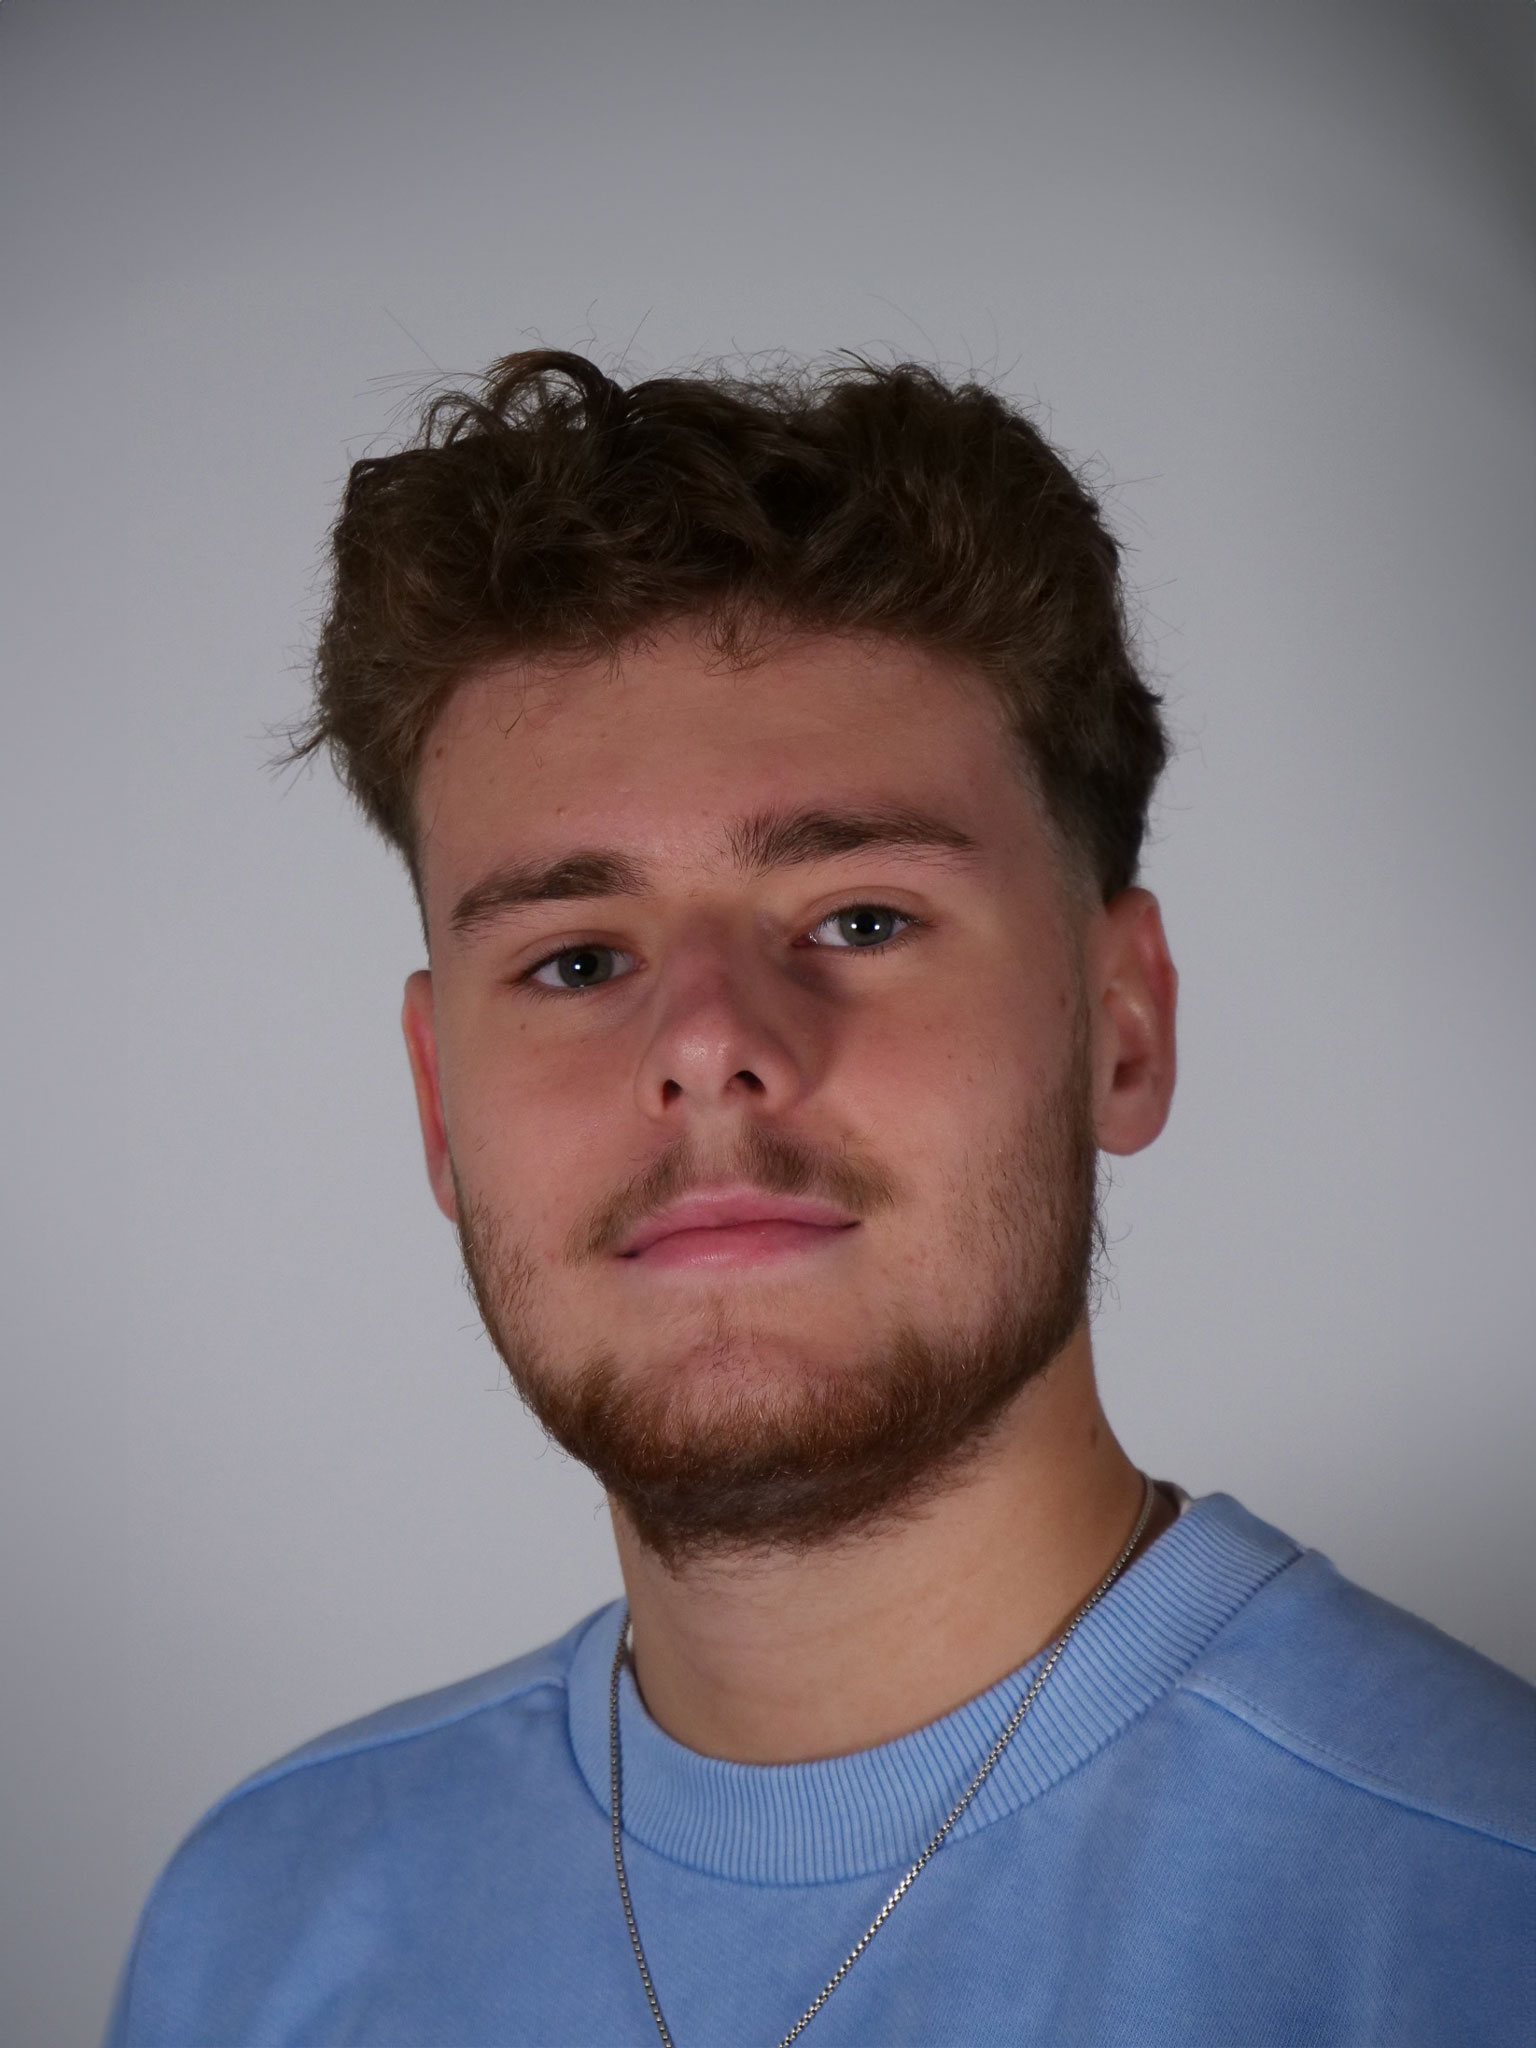
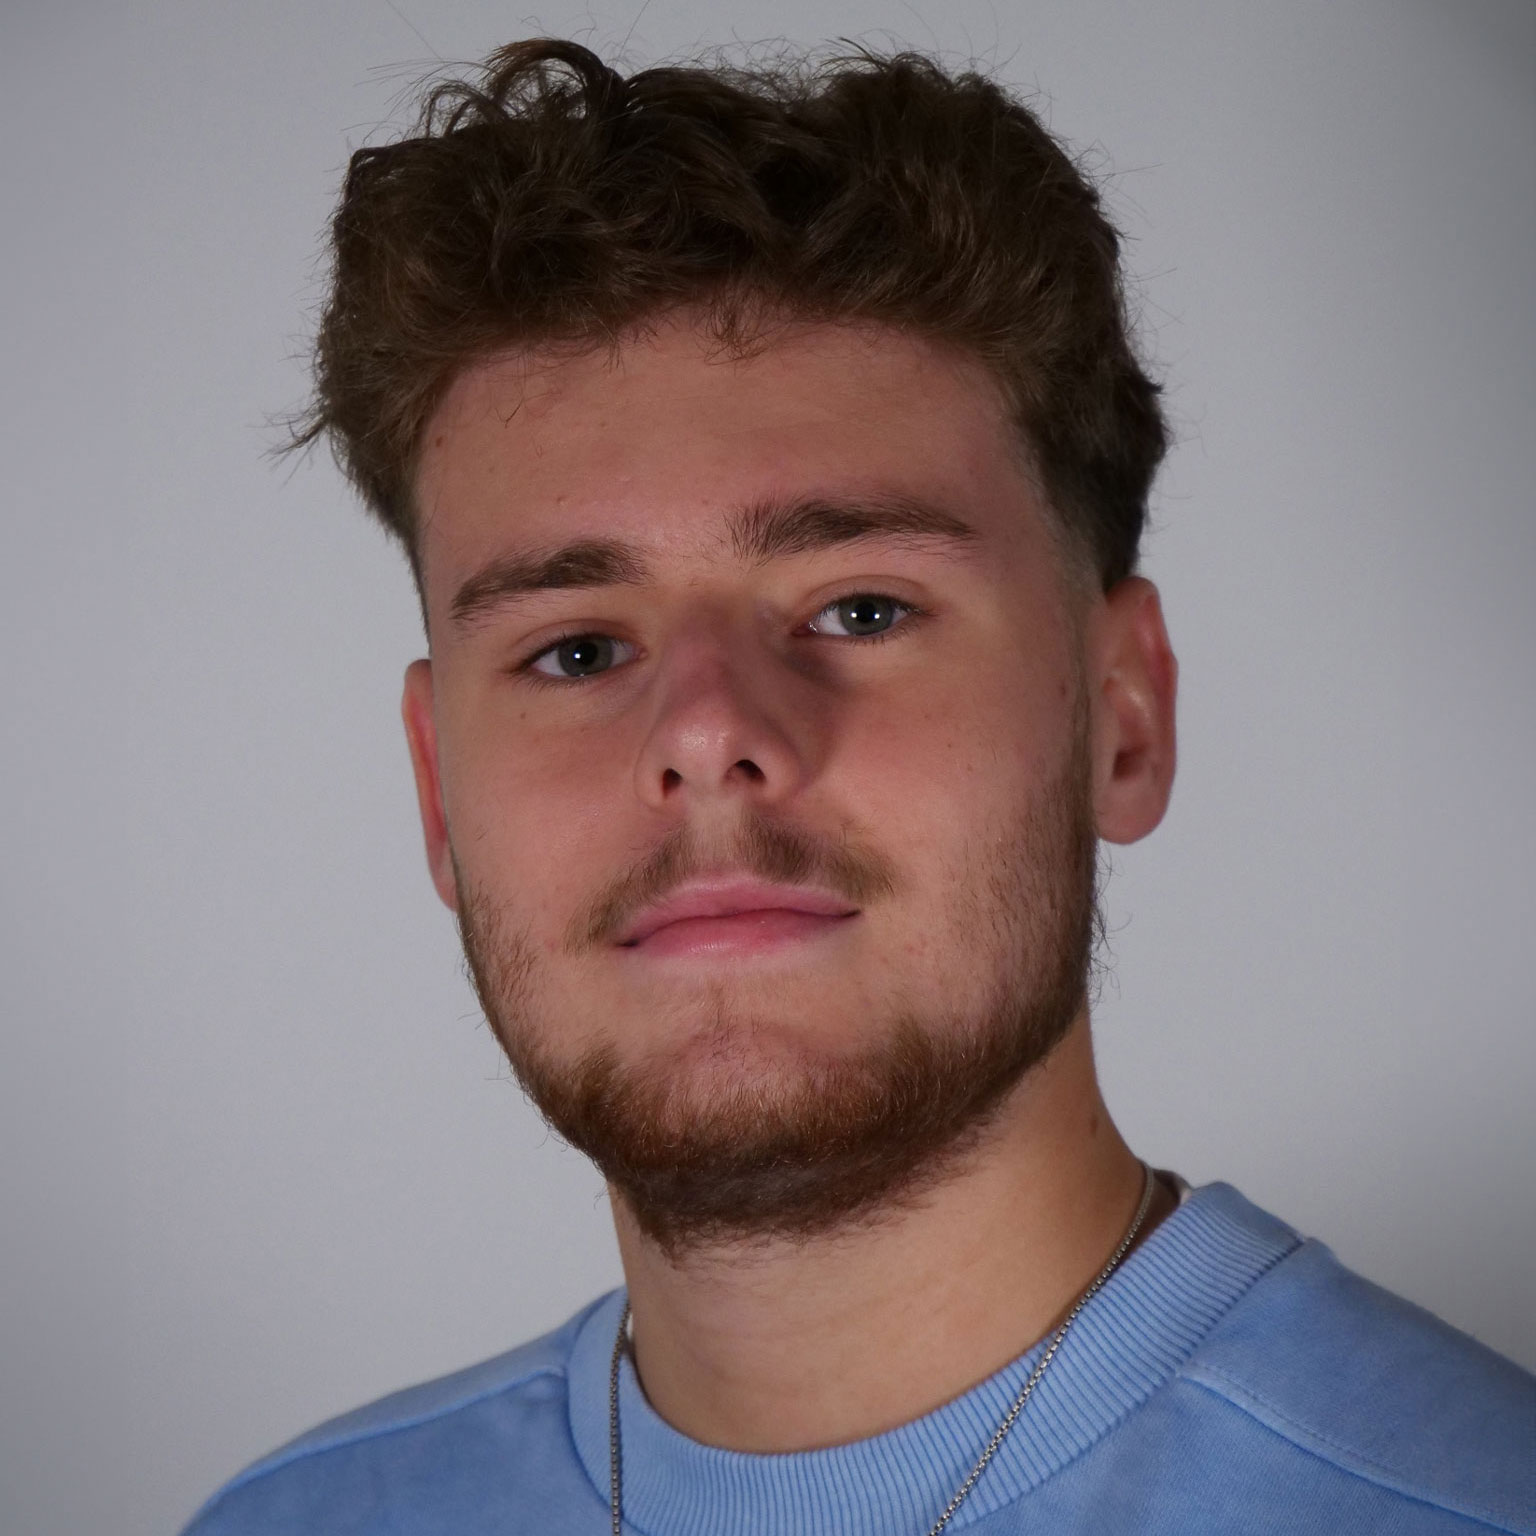
header + animation text

diff --git a/index.html b/index.html
@@ -18,153 +18,168 @@
 
 <body>
   <header>
-    <a href="https://i.goopics.net/242n8s.jpg"><img src="https://i.goopics.net/242n8s.jpg" alt="Photo" width="200"> </a>
-    <h2>Théophile Giffard</h2>
-    Recherche d’alternance en tant que Graphiste pendant une durée d’1 an.
-  </header>
+    <section class="page-header">
+      <div class="photo">
+        <img src="phototest.jpg" alt="Ma photo de profil">
+        <div class="row">
+          <div class="col-md-12 text-center">
+            <h2 class="animate-charcter">Théophile Giffard</h2>
+          </div>
+        </div>
+        <h2 class="project-tagline">Recherche d’alternance en tant que Graphiste pendant une durée d’1 an.</h2>
+      </div>
+    </section>
 
 
-  <section>
+
     <div class="section">
-      <h2>Profil</h2>
-      <p>
-        Etudiant à la Normandie Web School <br>Freelance Graphiste <br><a href="https://theogfd.fr"
-          target="_blank">www.theogfd.fr</a>
-        <br>7600 Rouen <br><a href="mailto:tgiffard@normandiewebschool.com">theo.gfd@hotmail.com</a>
-        <br>07.69.18.63.64 <br><a href="https://www.linkedin.com/in/theophilegiffard/" target="_blank">Linkedin</a>
-      </p>
-
-      <p>Freelance et étudiant à la Normandie Web School, je suis à la recherche
-        d’une alternance en tant que Graphiste. Je suis dynamique, créatif avec
-        un bon esprit d’équipe. Polyvalent, je maitrise la suite Adobe, les
-        langages de programation HTML / CSS et j’ai des connaissances en UX
-        Design</p>
-
+      <section>
+        <h2>Profil</h2>
+        <p>
+          Etudiant à la Normandie Web School <br>Freelance Graphiste <br><a href="https://theogfd.fr"
+            target="_blank">www.theogfd.fr</a>
+          <br>7600 Rouen <br><a href="mailto:tgiffard@normandiewebschool.com">theo.gfd@hotmail.com</a>
+          <br>07.69.18.63.64 <br><a href="https://www.linkedin.com/in/theophilegiffard/" target="_blank">Linkedin</a>
+        </p>
+        <p>Freelance et étudiant à la Normandie Web School, je suis à la recherche
+          d’une alternance en tant que Graphiste. Je suis dynamique, créatif avec
+          un bon esprit d’équipe. Polyvalent, je maitrise la suite Adobe, les
+          langages de programation HTML / CSS et j’ai des connaissances en UX
+          Design</p>
     </div>
-  </section>
+    </section>
 
-  <main>
-    <div class="gauche">
-      <div class="section">
-        <section>
-          <h2>Expériences</h2>
-          <ul>
-            <li>
-              Avril 2023 - Aujourd'hui<br>
-              <strong>Freelance</strong><br>
-          </ul>
-          </li>
-          <u>
-            <h3>Conception Graphique de Contenu pour les réseaux sociaux. </h3>
-          </u>
-          <ul>
-            <li>
-              <strong><a href=" https://www.youtube.com/@VTEPOfficiel/" target="_blank">Groupe TF1</a></strong>
-              - Chaine Youtube “Star Academy” et “Vendredi Tout est Permis”
+    <main>
+      <div class="gauche">
+        <div class="section">
+          <section>
+            <h2>Expériences</h2>
+            <ul>
+              <li>
+                Avril 2023 - Aujourd'hui<br>
+                <strong>Freelance</strong><br>
+            </ul>
             </li>
-            <li>
-              <strong><a href="https://www.numadeo.fr/" target="_blank">Agence Numadeo LTD</a></strong>
-              - Youtube et Instagram “ Jody Cavalie”,“Pointdevente”,“Edouard
-              Clerc”...
-            </li>
-            <li>
-              <a href="https://www.youtube.com/@christopherwangen9220" target="_blank">Christopher Wangen - Youtube et
-                Instagram</a>
-            </li>
-            <li>
-              <a href="https://www.youtube.com/@alex_yedder" target="_blank">Alex Yedder - Youtube, Instagram et Site
-                Internet</a>
-            </li>
-            <li>
-              <a href="https://www.youtube.com/@LeoSarteel" target="_blank">Leo Sarteel - Youtube et Instagram</a>
-            </li>
-            <li>
-              <a href="https://www.youtube.com/@Jesuismonpatron" target="_blank">Olivier Allain - Youtube et Site
-                Internet</a>
-            </li>
-            <li>
-              <a href="https://www.youtube.com/@encheres-immo" target="_blank">Enchères Immo - Youtube</a>
-            </li>
-            <li>
-              <a href="https://www.youtube.com/@encheres-immo" target="_blank">Julien Musy - Youtube</a>
-            </li>
-            <li>
-              <a href="https://www.youtube.com/@encheres-immo" target="_blank">Julien Musy - Youtube</a>
-            </li>
-          </ul>
-          <u>
-            <h3>Création d’identité visuelle.</h3>
-          </u>
-          <ul>
-            <li>
-              Startup
-              <strong><a href="https://caniconcept.fr" target="_blank">Caniconcept</a></strong>
-              - Identité visuelle <br>- Identiﬁer le secteur d’activité, la
-              concurrence <br>- Déﬁnir la cible, les valeurs <br>- Créer la
-              charte graphique de l’entreprise
-            </li>
-          </ul>
-          <ul>
-            <br>
-            Janvier 2023 - Aujourd'hui<br>
-            <strong><br>Création de ma micro entreprise</strong> et de mon site pour
-            développer mon ﬁchier client.</br>
-            <br><u><a href="https://theogfd.fr" target="_blank">www.theogfd.fr</a></u><br>
-            <br>
-            </li>
-          </ul>
-        </section>
+            <u>
+              <h3>Conception Graphique de Contenu pour les réseaux sociaux. </h3>
+            </u>
+            <ul>
+              <li>
+                <strong><a href=" https://www.youtube.com/@VTEPOfficiel/" target="_blank">Groupe TF1</a></strong>
+                - Chaine Youtube “Star Academy” et “Vendredi Tout est Permis”
+              </li>
+              <br>
+              <li>
+                <strong><a href="https://www.numadeo.fr/" target="_blank">Agence Numadeo LTD</a></strong>
+                - Youtube et Instagram “ Jody Cavalie”,“Pointdevente”,“Edouard
+                Clerc”...
+              </li>
+              <br>
+              <li>
+                <a href="https://www.youtube.com/@christopherwangen9220" target="_blank">Christopher Wangen - Youtube et
+                  Instagram</a>
+              </li>
+              <br>
+              <li>
+                <a href="https://www.youtube.com/@alex_yedder" target="_blank">Alex Yedder - Youtube, Instagram et Site
+                  Internet</a>
+              </li>
+              <br>
+              <li>
+                <a href="https://www.youtube.com/@LeoSarteel" target="_blank">Leo Sarteel - Youtube et Instagram</a>
+              </li>
+              <br>
+              <li>
+                <a href="https://www.youtube.com/@Jesuismonpatron" target="_blank">Olivier Allain - Youtube et Site
+                  Internet</a>
+              </li>
+              <br>
+              <li>
+                <a href="https://www.youtube.com/@encheres-immo" target="_blank">Enchères Immo - Youtube</a>
+              </li>
+              <br>
+              <li>
+                <a href="https://www.youtube.com/@encheres-immo" target="_blank">Julien Musy - Youtube</a>
+              </li>
+              <br>
+              <li>
+                <a href="https://www.youtube.com/@encheres-immo" target="_blank">Julien Musy - Youtube</a>
+              </li>
+            </ul>
+            <u>
+              <h3>Création d’identité visuelle.</h3>
+            </u>
+            <ul>
+              <li>
+                Startup
+                <strong><a href="https://caniconcept.fr" target="_blank">Caniconcept</a></strong>
+                - Identité visuelle <br>- Identiﬁer le secteur d’activité, la
+                concurrence <br>- Déﬁnir la cible, les valeurs <br>- Créer la
+                charte graphique de l’entreprise
+              </li>
+            </ul>
+            <ul>
+              <br>
+              Janvier 2023 - Aujourd'hui<br>
+              <strong><br>Création de ma micro entreprise</strong> et de mon site pour
+              développer mon ﬁchier client.</br>
+              <br><u><a href="https://theogfd.fr" target="_blank">www.theogfd.fr</a></u><br>
+              <br>
+              </li>
+            </ul>
+          </section>
+        </div>
       </div>
-    </div>
-    <div class="droite">
-      <div class="section">
-        <section>
-          <h2>Formations</h2>
-          <ul>
-            <li>
-              <strong>Période :</strong> Octobre 2023 - Juin 2026<br>
-              <br><strong><a href="https://normandiewebschool.fr/" target="_blank">Normandie Web School</a></strong><br>
-              <br>
-            </li>
+      <div class="droite">
+        <div class="section">
+          <section>
+            <h2>Formations</h2>
+            <ul>
+              <li>
+                Octobre 2023 - Juin 2026<br>
+                <br><strong><a href="https://normandiewebschool.fr/" target="_blank">Normandie Web
+                    School</a></strong><br>
+                <br>
+              </li>
 
-            <li>
-              <u>Bachelor chef de projet digital</u><br>
-              <br>(Emailing et Newsletter, Retouche photographie, Montage vidéo,
-              HTML CSS, Anglais, Contenu Web Graphismes vectoriels, Visuels Web &
-              Réseaux...)
-            </li>
-            <li>
-              <br>
-              <strong>Période :</strong> Juillet 2023<br>
-              <strong>
-                <a href="https://www.lyceejeannedarc.fr/" target="_blank">Lycée Jeanne d'Arc</a></strong><br>
-              <br>
-              <u>Baccalauréat général</u><br>
-              <br>Mention : Assez bien <br>Spécialités : Art Plastique, Sc.
-              Econo & Sociales
-            </li>
-          </ul>
+              <li>
+                <u>Bachelor chef de projet digital</u><br>
+                <br>(Emailing et Newsletter, Retouche photographie, Montage vidéo,
+                HTML CSS, Anglais, Contenu Web Graphismes vectoriels, Visuels Web &
+                Réseaux...)
+              </li>
+              <li>
+                <br>
+                Juillet 2023<br>
+                <strong>
+                  <a href="https://www.lyceejeannedarc.fr/" target="_blank">Lycée Jeanne d'Arc</a></strong><br>
+                <br>
+                <u>Baccalauréat général</u><br>
+                <br>Mention : Assez bien <br>Spécialités : Art Plastique, Sc.
+                Econo & Sociales
+              </li>
+            </ul>
 
-          <h2>Qualités personnelles</h2>
-          <ul>
-            <li>Coordinateur, Passionné</li>
-            <li>polyvalent, Travail d'équipe</li>
-            <li>Rigoureux, Autonome</li>
-          </ul>
-          <h2>Centres d'intérêts</h2>
-          <ul>
-            <li>Création de contenus, Musique</li>
-            <li>Vidéo, Photographie</li>
-          </ul>
+            <h2>Qualités personnelles</h2>
+            <ul>
+              <li>Coordinateur, Passionné</li>
+              <li>polyvalent, Travail d'équipe</li>
+              <li>Rigoureux, Autonome</li>
+            </ul>
+            <h2>Centres d'intérêts</h2>
+            <ul>
+              <li>Création de contenus, Musique</li>
+              <li>Vidéo, Photographie</li>
+            </ul>
 
-          <h2>Compétences</h2>
-          <ul>
-            <li>Photoshop, Illustrator, After Effects, Wordpress</li>
-          </ul>
-        </section>
-      </div>
+            <h2>Compétences</h2>
+            <ul>
+              <li>Photoshop, Illustrator, After Effects, Wordpress</li>
+            </ul>
+          </section>
+        </div>
 
-  </main>
+    </main>
 </body>
 
 </html>

diff --git a/style.css b/style.css
@@ -22,6 +22,11 @@ h2 {
   color: #343434;
 }
 
+.section {
+  padding: 10px;
+  margin: 10px;
+  border: 5px;
+}
 .section h2 {
   border-bottom: 2px solid #003dff;
   padding-bottom: 5px;
@@ -38,10 +43,6 @@ li::before {
   height: 5px;
   vertical-align: middle;
   border-radius: 10px;
-}
-
-header {
-  display: flex;
 }
 
 .gauche {
@@ -62,4 +63,56 @@ header {
 
 main {
   display: flex;
+}
+
+img {
+  border-radius: 50%;
+}
+.animate-charcter {
+  background-image: linear-gradient(
+    -225deg,
+    #003dff 0%,
+    #4613ff 29%,
+    #4f22c1 67%,
+    #003dff 100%
+  );
+  background-size: auto auto;
+  background-clip: border-box;
+  background-size: 200% auto;
+  color: #fff;
+  background-clip: text;
+  text-fill-color: transparent;
+  -webkit-background-clip: text;
+  -webkit-text-fill-color: transparent;
+  animation: textclip 1s linear infinite;
+  display: inline-block;
+  font-size: 3rem;
+}
+
+@keyframes textclip {
+  to {
+    background-position: 200% center;
+  }
+}
+
+.project-tagline {
+  font-size: 1.25rem;
+  margin-bottom: 2rem;
+  font-weight: normal;
+  opacity: 100%;
+}
+
+.page-header {
+  color: #fff;
+  text-align: center;
+  background-image: linear-gradient(120deg, #f1f1f1, #dbdbdb);
+}
+
+.photo img {
+  width: 150px;
+  height: 150px;
+  border: 3px solid #fff;
+  box-shadow: 0px 0px 10px #777;
+  border-radius: 50%;
+  margin-top: 40px;
 }
